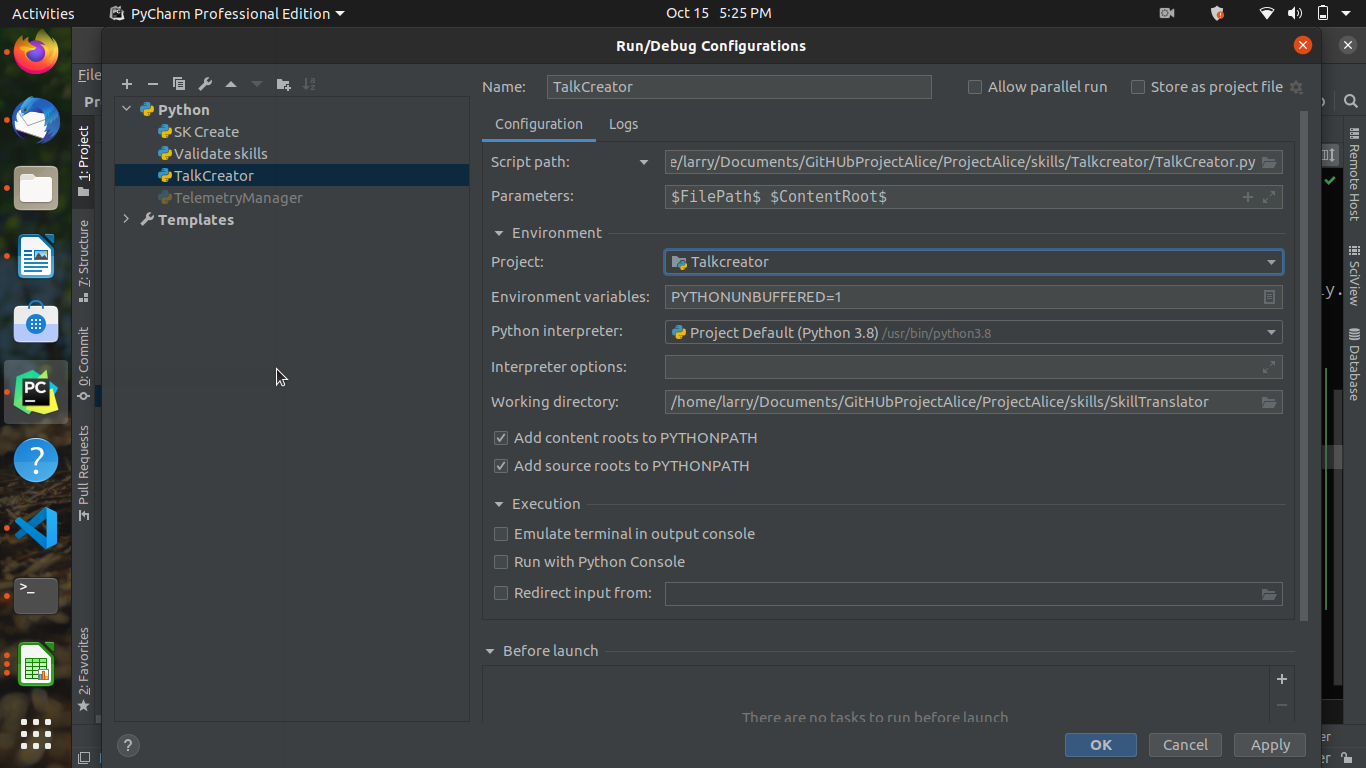
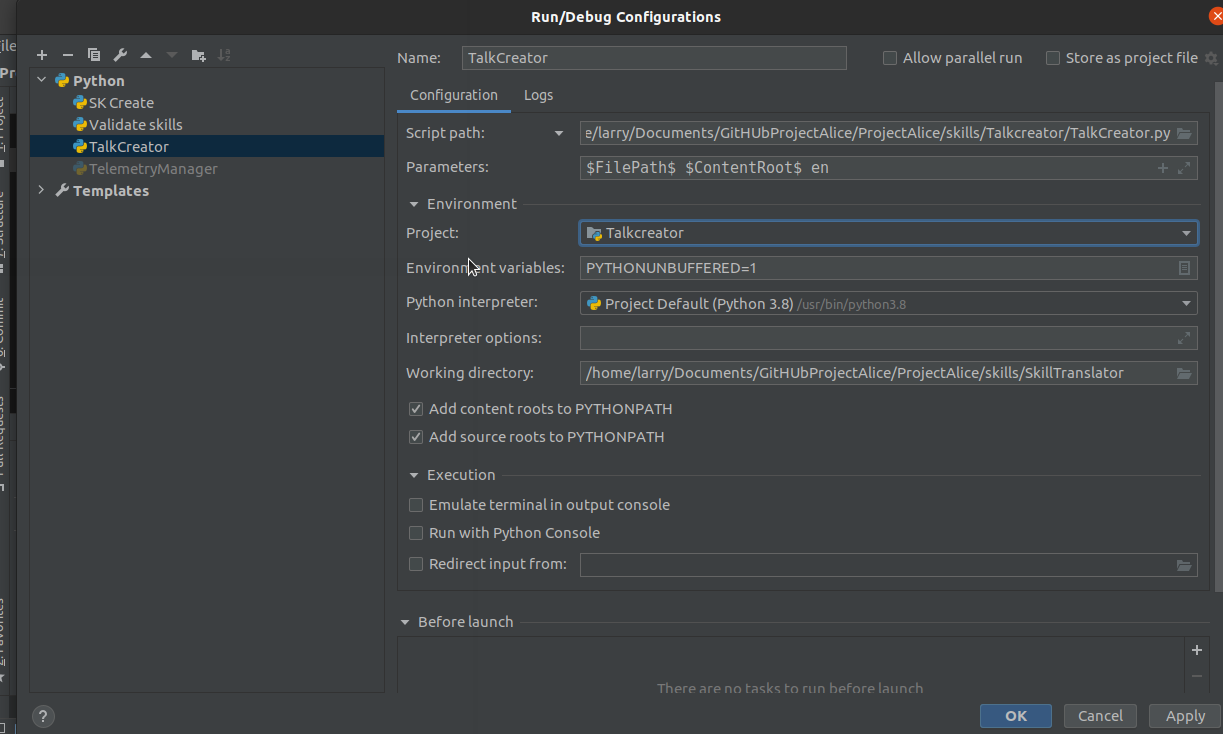
added language option for config parameters

diff --git a/TalkCreator.py b/TalkCreator.py
@@ -30,7 +30,7 @@ class CopyTooTalk:
 	**To setup your run configuration in pycharm **
 
 	1. For the script field = point it to TalkCreator.py file
-	2. For paramaters field = $FilePath$ $ContentRoot$
+	2. For paramaters field = $FilePath$ $ContentRoot$ en
 	3. Working directory shoudl automatically be filed when you select the script
 	4. Excecution boxes can all stay unticked
 	5. oh and name it whatever, maybe talkCreator?
@@ -39,7 +39,10 @@ class CopyTooTalk:
 
 	Open a skills .py file you want to scan in pycharm. Then "run" "talkCreator"  or whatever you called it
 
-	PS - Change line 291 to point to your talks language file IE: de.json. Default is en.json
+	PS - make sure to set the correct language variable in the configuration paramaters. As per point #2 above
+	it reflects en for english
+
+	EG parmeters = $FilePath$ $ContentRoot$ en or $FilePath$ $ContentRoot$ de etc
 	"""
 
 
@@ -298,8 +301,8 @@ class CopyTooTalk:
 
 	# write changes to the talk file
 	def writeToTalkFile(self):
-		file = Path(f'{sys.argv[2]}/talks/en.json')
-
+		file = Path(f'{sys.argv[2]}/talks/{sys.argv[3]}.json')
+		print(f'file path is {file}')
 		with open(file, 'r+') as file:
 			exisitingTalkData = json.load(file)
 			exisitingTalkData.update(self._finalTalk)

diff --git a/README.md b/README.md
@@ -31,7 +31,7 @@ See doc string in TalkCreator.py for more info on the skill
 **To setup your run configuration in pycharm **
 
 1. For the script field = point it to TalkCreator.py file
-2. For paramaters field  = ```$FilePath$ $ContentRoot$```
+2. For paramaters field  = ```$FilePath$ $ContentRoot$ en``` #NOTE: replace en with your default language file IE: de or fr etc
 3. Working directory shoudl automatically be filed when you select the script
 4. Excecution boxes can all stay unticked
 5. oh and name it whatever, maybe ```talkCreator```?
